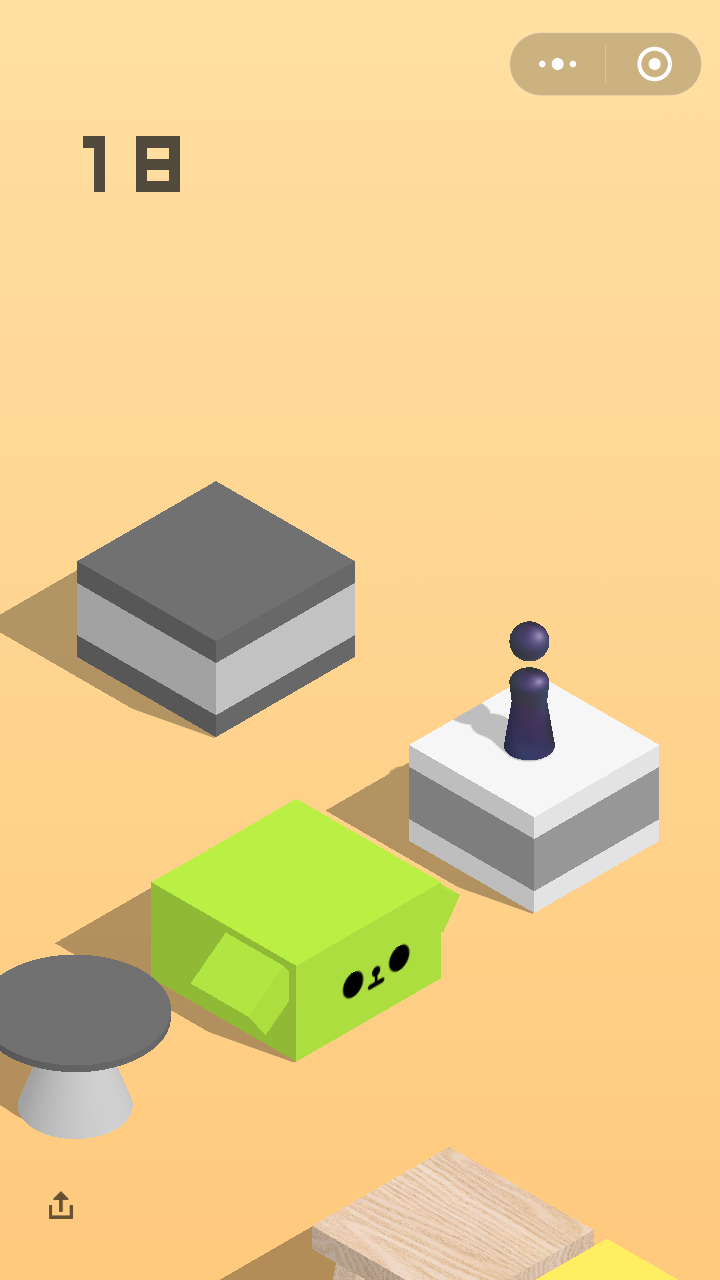
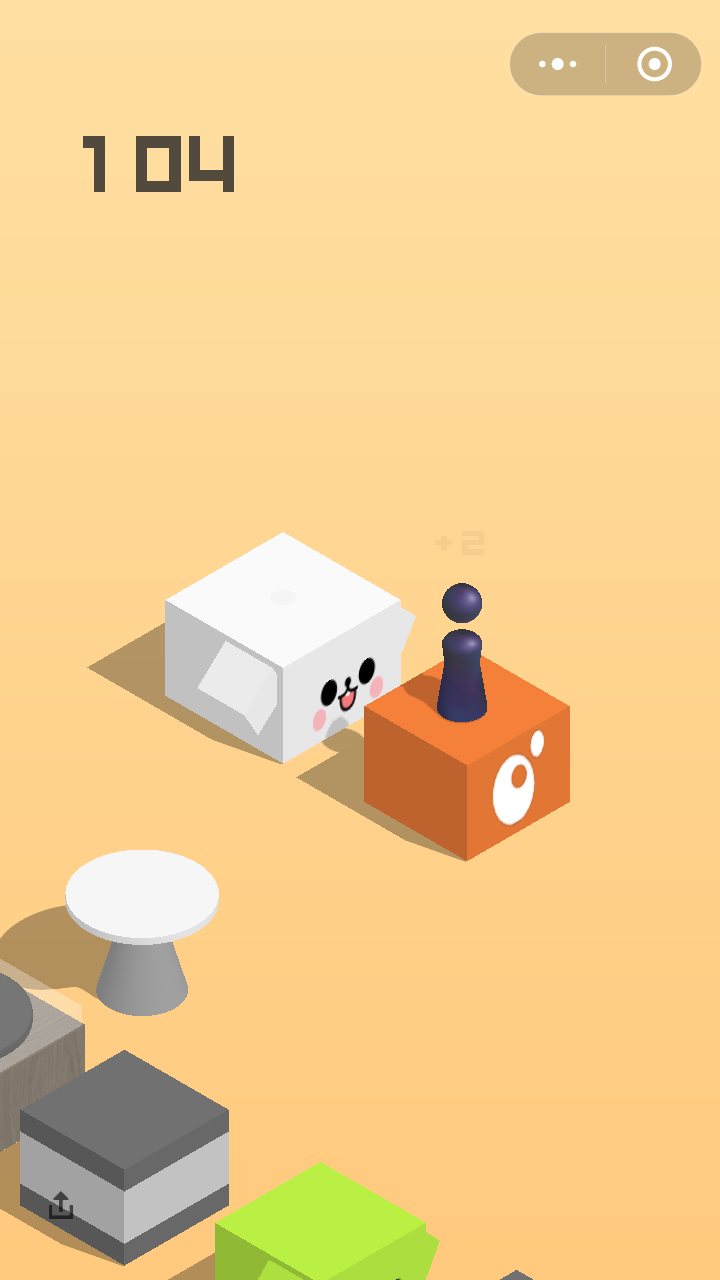
修复了后端截图的问题

diff --git a/index.js b/index.js
@@ -16,7 +16,9 @@ let runExec = (cmdStr, callback) => {
   });
 }
 
-setInterval(() => {
+//setInterval(() => {}, 3000)
+// 事件触发截屏，原地点击两次就触发一次截屏
+let screencap = () => {
   // 在/sdcard/下新建wscats文件件
   runExec(`adb shell mkdir -p /sdcard/wscats`, () => {
     // 截图并保存到/sdcard/wscats/下，并命名为screen.png
@@ -30,11 +32,11 @@ setInterval(() => {
       })
     })
   })
-}, 3000)
+}
 
 http.createServer((req, res) => {
   switch (url.parse(req.url).pathname) {
-      // 跳一跳路由
+    // 跳一跳路由
     case "/jump":
       // 解决跨域
       res.setHeader("Access-Control-Allow-Origin", "*")
@@ -52,6 +54,9 @@ http.createServer((req, res) => {
       console.log("长按：", t, "秒")
       runExec(`adb shell input swipe 100 200 300 400 ${parseInt(t)}`, () => {
         res.end('success')
+        setTimeout(() => {
+          screencap()
+        }, 500)
       })
       break;
     default:

diff --git a/index.html b/index.html
@@ -36,7 +36,7 @@
       img.onload = function() {
         ctx.drawImage(img, 0, 0, 288, 512);
       }
-    }, 1000)
+    }, 200)
     var points = [];
     canvas.onclick = function(e) {
       points.push({
